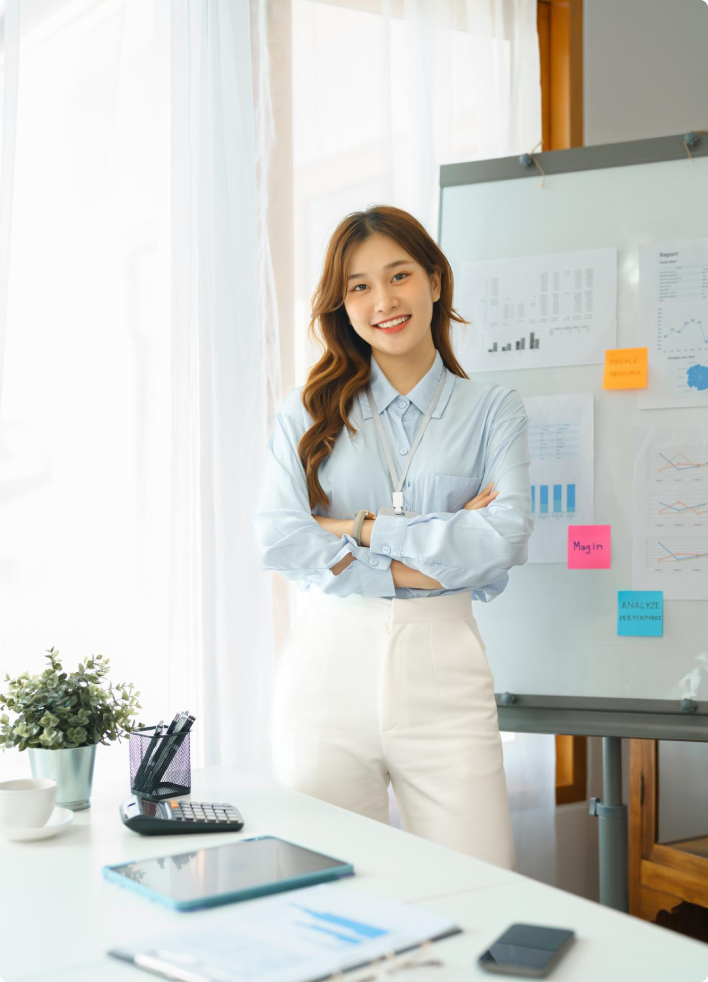
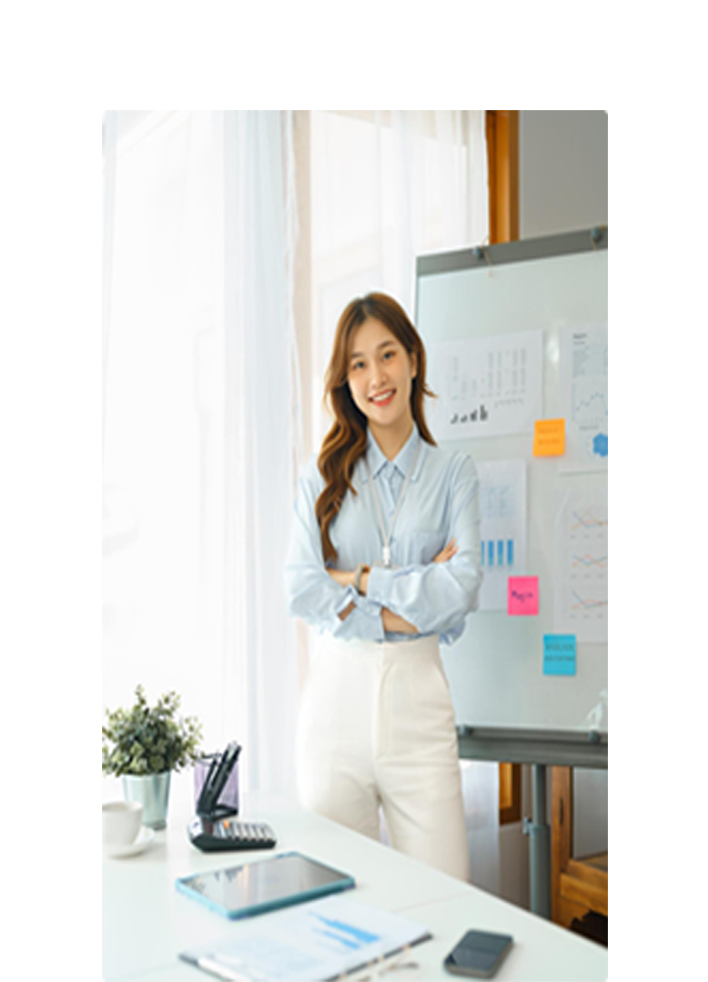
fact

diff --git a/styles/style.css b/styles/style.css
@@ -253,7 +253,23 @@ a:hover {
 
 /* fact section */
 
+.fact {
+    padding: 100px 100px 10px 180px;
 
+}
+
+.fact-heading {
+    font-weight: 700;
+    font-size: 45px;
+    color: #131313;
+
+}
+
+.fact-description {
+    font-weight: 400;
+    font-size: 16px;
+    color: #727272;
+}
 
 /* nav media query start*/
 
@@ -447,7 +463,7 @@ a:hover {
     .banner-feature-blog-section {
         display: flex;
         flex-direction: column;
-        
+
     }
 
     .banner-feature-left-side {
@@ -458,13 +474,13 @@ a:hover {
 
     .banner-feature-right-side {
         padding-top: 0px;
-        width:100%;
+        width: 100%;
         display: flex;
-       flex-direction: column;
-       justify-content: center;
-       align-items: center;
-       
-       
+        flex-direction: column;
+        justify-content: center;
+        align-items: center;
+
+
 
     }
 
@@ -513,11 +529,11 @@ a:hover {
 
 
     }
-     
-      img{
+
+    img {
         width: 90%;
-      }
-     
+    }
+
     .banner-feature-blog-btn {
 
         font-weight: 500;
@@ -543,3 +559,36 @@ a:hover {
 }
 
 /* banner blog feature section media query end  */
+
+
+/* fact section media query start */
+
+@media (max-width: 952px) {
+    .fact {
+        width: 100%;
+        display: flex;
+        flex-direction: column;
+        justify-content: center;
+        padding: 50px 10px 10px 88px;
+
+
+    }
+
+    .fact-heading {
+        font-weight: 700;
+        font-size: 25px;
+        color: #131313;
+        width: 50%;
+        
+
+    }
+
+    .fact-description {
+        font-weight: 200;
+        font-size: 14px;
+        color: #727272;
+        width: 60%;
+        text-align: justify;
+        padding-top: 10px;
+    }
+}

diff --git a/index.html b/index.html
@@ -110,7 +110,7 @@
             
           <div class="banner-feature-right-side">
                 <div class="banner-feature-img">
-                  <img src="images/architecting.png" alt="">
+                  <img src="images/architect.png" alt="">
                 </div>
 
                   <div class="banner-feature-blog-btn-head">
@@ -120,8 +120,13 @@
         </div>
 
         <!-- fact section -->
-
         
+         <div class="fact">
+               <h3 class="fact-heading">Some Facts</h3>
+
+                <p class="fact-description">There are many variations of passages of Lorem Ipsum available, but <br> the majority have suffered alteration.</p>
+         </div>
+
     </main>
      
 </body>
